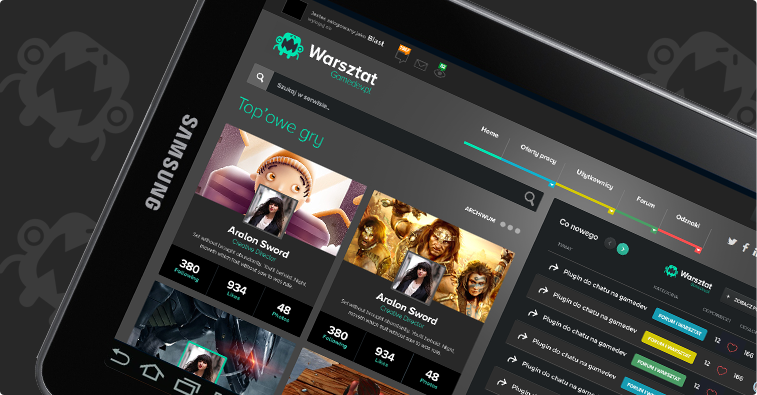
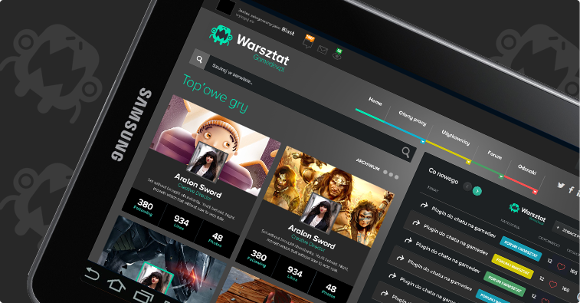
Implemented 1200px grid and resized highlight image

diff --git a/app/less/main.less b/app/less/main.less
@@ -4,8 +4,8 @@ body {
     color: white;
     background: #454545;
     
-    padding: 25px 40px;
-    margin: 0px;
+    width: 1200px;
+    margin: 10px auto;
     
     font-family: 'Open Sans', sans-serif;
 }
@@ -24,6 +24,7 @@ a:visited{
 
 header {
     background: #1d2123;
+    margin: 0 10px;
     border-radius: 4px;
      
     h1.logo {
@@ -42,7 +43,8 @@ header {
 
 main {    
     section {
-        width: 50%;
+        width: 580px;
+        margin: 10px;
         float: left;
     }
     
